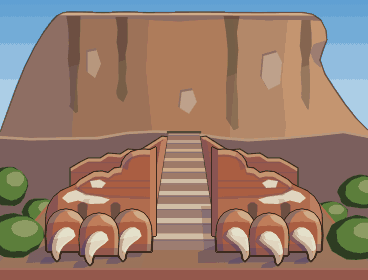
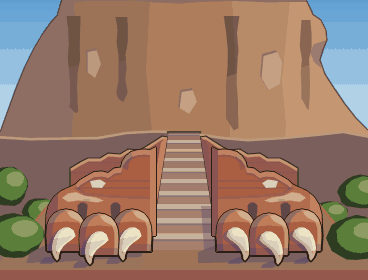
The painted monuments go on the map
All twelve plates are in content/map/assets.json now, so the chapter panel shows
each chapter's painted plate instead of the flat silhouette, which stays as the
fallback.

Before they went in, per the designer:

- Tikal is ruled: architecture only, no ceremony, modern altar, fire circle,
  offerings or people in frame, in the vignette or in any level. Recorded in
  content/research/arc.md section 4 and flagged on the chapter 6 row. The
  re-verification had found that contemporary Maya ceremonies are held in the
  Great Plaza, which the research had missed.
- Great Zimbabwe: the tower's top was two square notches a course deep and read
  as a castle battlement. It is flat and worn now, two shallow losses.
- The Iron Bridge: the red-brown iron sat on the same value as the woods behind
  it, and the plate was the darkest in the set. The woods are hazed back toward
  the sky, the river lifted, the iron given a little more sun, the bright
  abutment at the frame edge taken down a step.
- Sigiriya: the rock's flat ruled top across the plate read as a desert butte.
  The summit now runs off the top of the plate and the face towers. The pale
  plaster flash on each foot read as a cartoon paw pad; it is close to the brick
  in value now.
- The four plates that were painted without an art review (Gargas, the Lion
  Gate, Persepolis, Segesta) were reviewed and stand as they are.

Each asset entry names its painter as its source. content/map/README.md's
[…]

diff --git a/tools/monument-painters/iron-bridge.js b/tools/monument-painters/iron-bridge.js
@@ -45,10 +45,10 @@
 PAINTERS['iron-bridge'] = function (ctx, W, H, B) {
   // The research palette, a little sunnier than life.
   const S = {
-    ironSun: '#8c4e36', // the 2018 paint in full sun
+    ironSun: '#9c5639', // the 2018 paint in full sun
     iron: '#6e3829', // its local colour
     ironShade: '#4d2419', // under the arch, the receding ribs
-    stone: '#b0a488', // buff-grey ashlar in sun
+    stone: '#a39679', // buff-grey ashlar in sun, a step below the sky
     stoneShade: '#6f695c', // turned away, and the joints
     brick: '#8b5a45', // tollhouse and town brick
     roof: '#57565b', // tile roofs
@@ -206,9 +206,11 @@ PAINTERS['iron-bridge'] = function (ctx, W, H, B) {
   // value step behind the iron: the far ridge palest and coolest, the two
   // spurs a little nearer and greener, the sunlit town spur warmest.
   const WOOD_LOW = mixh(B.C.foliage, B.C.foliageDark, 0.5);
-  const FAR_RIDGE = mixh(lit(B.C.foliage, 0.1), B.C.skyLow, 0.5);
-  const SPUR_S = mixh(shd(B.C.foliage, 0.1), B.C.skyLow, 0.24);
-  const SPUR_N = mixh(lit(B.C.foliage, 0.2), B.C.skyLow, 0.22);
+  // The woods are hazed well back toward the sky so the iron, the subject,
+  // stands a clear value step in front of them (the pilot's first lesson).
+  const FAR_RIDGE = mixh(lit(B.C.foliage, 0.1), B.C.skyLow, 0.64);
+  const SPUR_S = mixh(shd(B.C.foliage, 0.06), B.C.skyLow, 0.46);
+  const SPUR_N = mixh(lit(B.C.foliage, 0.2), B.C.skyLow, 0.44);
 
   // ---------------------------------------------------------------------------
   // 1. The shared sky, cloudless as the pilot's, down behind the ridge.
@@ -691,7 +693,7 @@ PAINTERS['iron-bridge'] = function (ctx, W, H, B) {
     // The Severn's olive, taking the sky: pale and cool at the far water,
     // deepening toward the viewer, so the foot of the plate is neither empty
     // nor as heavy as the bridge.
-    const RIVER = mixh(S.river, B.C.skyLow, 0.46);
+    const RIVER = mixh(S.river, B.C.skyLow, 0.6);
     ctx.fillStyle = vgrad(ctx, WL, H, [[0, mixh(RIVER, B.C.skyLow, 0.2)], [0.4, RIVER], [1, shd(RIVER, 0.18)]]);
     ctx.fillRect(0, WL, W, H - WL);
 

diff --git a/tools/monument-painters/lion-paws.js b/tools/monument-painters/lion-paws.js
@@ -111,7 +111,9 @@ PAINTERS['lion-paws'] = function (ctx, W, H, B) {
   // that is some 100 px. The stair between them is about 2.2 m wide and climbs
   // on, narrowing into the distance, to the foot of the cliff.
 
-  const TOPY = 12; // the summit line, with some 10 px of sky above it
+  // The summit runs off the top of the plate: seen from the lion terrace the
+  // rock towers, and a flat ruled top across the frame read as a desert butte.
+  const TOPY = -6;
   const BASE = 250; // where the outer toes and the first step meet the terrace
   const PX1 = 150; // the left paw's inner side, along the stair; the right paw mirrors it
   const STAIR_TOP = 132; // the last step visible, in the shade at the cliff's foot
@@ -444,8 +446,10 @@ PAINTERS['lion-paws'] = function (ctx, W, H, B) {
       }
       // Surviving lime plaster over the top of the foot: a few crisp, pale
       // patches, the brick showing red between them.
-      const PL = lit(S.plaster, 0.12);
-      B.fill(c, P([[62, 198], [68, 192.6], [76, 190], [86, 194.6], [100, 196.4], [110, 199.4], [104, 203.4], [90, 204], [78, 200.6], [68, 203]]), PL);
+      // Kept close in value to the brick: a pale flash on each foot read as a
+      // cartoon pad, not as weathered lime.
+      const PL = mixh(lit(S.plaster, 0.06), S.brick, 0.42);
+      B.fill(c, P([[62, 198], [68, 193.6], [76, 192], [84, 195.6], [96, 197.4], [104, 200.4], [98, 202.4], [88, 201.6], [78, 200.6], [68, 202]]), PL);
       // A shallow cool dip down the middle of the foot where the toes part.
       wash(c, P([[74, 214], [84, 199], [90, 199], [86, 214]]), SHADOW, 0.16);
       wash(c, P([[108, 214], [114, 200], [120, 200], [118, 214]]), SHADOW, 0.16);

diff --git a/tests/map.spec.ts b/tests/map.spec.ts
@@ -277,3 +277,28 @@ test('nothing printed on the map is ever standing where the tourist is', async (
   });
   expect(clashes).toEqual([]);
 });
+
+test('every chapter shows its painted plate in the panel, not the flat fallback', async ({ page }) => {
+  const colours = await page.evaluate(() => {
+    const g = (window as unknown as { __game: { mapScreen: { view: string; chapter: number }; scale: number; draw(): void } }).__game;
+    const canvas = document.querySelector('#game') as HTMLCanvasElement;
+    const ctx = canvas.getContext('2d')!;
+    const out: number[] = [];
+    for (let c = 0; c < 12; c++) {
+      g.mapScreen.view = 'world';
+      g.mapScreen.chapter = c;
+      g.draw();
+      // The plate's frame in the world view, inset past its keyline.
+      const s = g.scale;
+      const d = ctx.getImageData((218 + 4) * s, (40 + 4) * s, (92 - 8) * s, (70 - 8) * s).data;
+      const seen = new Set<number>();
+      for (let i = 0; i < d.length; i += 4) seen.add((d[i]! << 16) | (d[i + 1]! << 8) | d[i + 2]!);
+      out.push(seen.size);
+    }
+    return out;
+  });
+  // Measured: a painted plate shows 239 to 255 colours here (its palette is
+  // capped at 255); the code-drawn silhouette, antialiased at this scale, about
+  // 156. 200 sits clear of both.
+  for (const [i, n] of colours.entries()) expect(n, `chapter ${i + 1}`).toBeGreaterThan(200);
+});

diff --git a/tools/monument-painters/conical-tower.js b/tools/monument-painters/conical-tower.js
@@ -405,7 +405,9 @@ PAINTERS['conical-tower'] = function (ctx, W, H, B) {
   // The conical tower: flat-topped, its top edge ragged where a few blocks of
   // the top course (and one of the course under it) are gone.
   const TOPM = TH_M;
-  const gaps = [[-1.58, -0.7, 1], [-0.7, -0.52, 0.5], [0.12, 0.6, 1]];
+  // Shallow, uneven losses, never a full course: two square notches a course
+  // deep made the flat top read as a castle battlement.
+  const gaps = [[-1.58, -1.02, 0.5], [0.28, 0.58, 0.35]];
   const bigTop = function (th) {
     for (const [a, b, n] of gaps) if (th >= a && th < b) return TOPM - n * COURSE_M;
     return TOPM;

diff --git a/content/map/README.md b/content/map/README.md
@@ -57,26 +57,37 @@ and an empty quiet map beats a busy confusing one.
 
 ## The vignettes
 
-One monument per chapter, `src/map/monuments.ts`, drawn by the game as a flat silhouette
-with no interior detail until somebody paints one. To paint one, add an entry for
-`map-monument-chNN-slug` to `assets.json` with a note beside it, at 92 × 70 world px;
-the painted version takes over automatically.
+One painted plate per chapter in the panel: 92 × 70 world px, painted 368 × 280,
+filling its keyline frame edge to edge. Each is one of that chapter's own five sites,
+never a famous monument borrowed from elsewhere and never one the research rejected.
+Each plate has its note beside it in `monuments/`, with what must be right, what is
+deliberately wrong, what is contested, and the sources; the note is the authority,
+not this page.
 
-**Each vignette is one of that chapter's own five sites**, never a famous monument
-borrowed from elsewhere, and never one the research rejected. Giza is not the vignette
-for Egypt, because `content/research/arc.md` rejects Giza as a level.
-
-| Ch | Site | What must be right about the outline |
+| Ch | Plate | Note |
 |---|---|---|
-| 1 | Gargas | A hand stencil, pigment blown around a hand: the rock is the ink and the hand is the void. All four fingers stop at a knuckle and the thumb is whole — Gargas is the cave of the incomplete hands. No finger stands proud of the others: a hand with one finger up is a gesture, and pillar 11 says the tourist is the joke, never the place. |
-| 2 | Abu Simbel | Four seated colossi of Ramesses II, one doorway between the inner pair, and the second colossus broken off above the waist. **Deliberately wrong:** the cornice and the frieze of twenty-two baboons above the heads are left off, because in silhouette they would flatten the four figures into one trapezoid. |
-| 3 | Mycenae | The Lion Gate: two uprights, one lintel, the relieving triangle above it, two lionesses flanking a column that is wider at the top than at the foot. |
-| 4 | Persepolis | Apadana columns, the slenderest in the ancient world for their height, under a capital of two bull foreparts back to back with the roof beam in the saddle between. **Deliberately wrong:** the bulls' horns are left off, because two horns on a skyline at this size read as antennae. |
-| 5 | Segesta | A Doric hexastyle temple standing complete on its hill, with both pediments and no cella: it was never finished. |
-| 6 | Tikal | Temple I: nine terraces, a stair straight up the front, and a roof comb narrower than the temple under it and taller than it, carrying nothing and holding up nothing. Chosen over El Castillo so that the Americas do not read as a pyramid a second time after Egypt. |
-| 7 | Angkor Wat | Five towers in a quincunx, so the elevation shows the central one tall and four lower, each shaped like a lotus bud, over the galleries and the causeway. |
-| 8 | Himeji | A stone base curving outward at the foot, then storeys under roofs with the eaves turned up at the corners. Chosen over the Great Wall, which is a line and not a shape. |
-| 9 | Great Zimbabwe | The conical tower seen over the enclosure wall, with the smaller second tower beside it that has largely fallen. Dry stone, no mortar, no door, no stair: solid all the way through. |
-| 10 | Registan | The pishtaq: a pointed arch in a rectangular frame taller than the building behind it, a ribbed melon dome on a drum, a minaret at each corner. |
-| 11 | The Iron Bridge | One semicircular arch of cast iron, the deck carried over the crown, and the rings in the spandrels. |
-| 12 | Martello Towers | A squat brick drum, wider than it is tall, battered inward all the way up, with the cordon ring under a low straight parapet, one traversing gun on the roof, and a door on the first floor with nothing under it but a ladder that could be pulled up after you. A second tower stands down the shingle: a hundred and three of them went up along the south and east coasts, spaced so their guns overlapped, against an invasion that never came. **Deliberately wrong:** the gun's barrel is drawn longer than a 24-pounder's was, because at this size the true length is a nub and a tower with no gun on it is just a drum. |
+| 1 | Gargas, the hand in the niche | `monuments/map-monument-ch01-palaeolithic.md` |
+| 2 | Abu Simbel, the Great Temple | `monuments/map-monument-ch02-egypt.md` |
+| 3 | Mycenae, the Lion Gate | `monuments/map-monument-ch03-aegean.md` |
+| 4 | Persepolis, the Apadana and its eastern stair | `monuments/map-monument-ch04-persia.md` |
+| 5 | Segesta, the unfinished temple | `monuments/map-monument-ch05-classical.md` |
+| 6 | Tikal, Temple I (architecture only: gate-6 ruling, arc.md §4) | `monuments/map-monument-ch06-americas.md` |
+| 7 | Sigiriya, the lion's paws (Angkor Wat carries an unresolved gate-6 flag) | `monuments/map-monument-ch07-monsoon.md` |
+| 8 | Himeji, from the south | `monuments/map-monument-ch08-east-asia.md` |
+| 9 | Great Zimbabwe, the conical tower inside the Great Enclosure (walls and tower only: arc.md §4) | `monuments/map-monument-ch09-africa.md` |
+| 10 | Registan, the Ulugh Beg Madrasa (the only one inside the chapter's dates) | `monuments/map-monument-ch10-islamic.md` |
+| 11 | The Iron Bridge, from downstream | `monuments/map-monument-ch11-industrial.md` |
+| 12 | Martello Towers, Dymchurch | `monuments/map-monument-ch12-napoleonic.md` |
+
+**How they are made.** Each plate is painted by a script in `tools/monument-painters/`,
+following the research in `tools/monument-painters/specs/`, and regenerated with
+`npm run map:monuments` (or `-- <painter>` for one). The Abu Simbel plate is the
+standard the others were matched to: flat brochure illustration, light from the upper
+right, the shared sky and shadow colours from `_brush.js`. A plate is saved as an
+indexed PNG and must stay under 64 kB, because all twelve load before the first
+screen. A hand painting can replace any plate at the same size; drop the `source`
+from its manifest entry and keep the `.aseprite` beside it as usual.
+
+If a plate is missing, the map falls back to the flat silhouette in
+`src/map/monuments.ts`. Those silhouettes predate the research and are placeholders
+only.

diff --git a/content/map/monuments/map-monument-ch07-monsoon.md b/content/map/monuments/map-monument-ch07-monsoon.md
@@ -53,8 +53,8 @@ the width of the plate at its foot and narrows toward the top, as rock does when
 tilts up. It is painted in five tall flat planes, cool on the left and stepping warmer to
 the sunlit right. On the right a sunny shoulder leans out over a shaded undercut. Four
 dark run-off streaks hang from the lip, darkest at the top. Three pale angular patches
-show where the weathered skin has flaked away. The summit line is flat and bare, with a lit
-lip and a band of shade under it. The foot of the cliff, behind the paws, is one calm
+show where the weathered skin has flaked away. The summit runs off the top of the plate,
+so the face towers; the sky shows only in the upper corners. The foot of the cliff, behind the paws, is one calm
 band of cool shade under a thin lit edge, so the tops of the paws stand clear of it.
 
 Above, the set's brochure sky, cloudless: a strip along the top of the plate and a wedge
@@ -108,8 +108,8 @@ paws is gone" is what is known. And the chapter 7 row of the vignettes table in
 - The terrace is the ground, and the cliff rises from its back edge. The terrace is not at
   the level of the plain.
 - The rock is a sheer, bare, near-vertical cliff. Not a green hill, not a dome, not a cone.
-- The summit line is broadly flat. No palace, wall, tower or roof on it: the summit holds
-  foundations and cisterns only, and none shows from here.
+- Nothing built shows on the rock from here. The summit, out of frame above, holds
+  foundations and cisterns only.
 - No painted women on the cliff face and no gleaming mirror wall. Both are on the west
   face, out of this view.
 - No water, moat, fountains or water gardens in frame. They lie at the western foot of the
@@ -144,8 +144,8 @@ paws is gone" is what is known. And the chapter 7 row of the vignettes table in
   The plate throws them to the left and a little toward the viewer, the set's rule, onto
   the terrace and across the lowest steps.
 - **The view is compressed.** The depth of the terrace is shortened and the cliff cut
-  down, so the paws and the summit edge fit one 92 × 70 frame. Looking up from the terrace,
-  the real cliff would fill far more of the view.
+  so the paws and the towering face fit one 92 × 70 frame. The summit is left out of
+  frame: a flat ruled top across the plate read as a desert butte.
 - **The terrace is empty.** It never is in life. A brochure clears it, and figures at this
   size would be specks that confuse the paws' scale.
 - **The modern fittings are left out.** The metal stairways that climb the rock above the

diff --git a/content/research/arc.md b/content/research/arc.md
@@ -5,7 +5,7 @@ single source of truth for site identity, period, costume and status. It does no
 contain level design; beats are decided one at a time in design conversation and
 live in each level's own asset notes.
 
-Last revised: 2026-09-23. Great Zimbabwe ruled: walls, passage and tower only (section 4). 2026-09-15: curator mode dropped by designer ruling; facts that cannot be shown without text live in the asset notes and nowhere in the game.
+Last revised: 2026-09-24. Tikal ruled: architecture only (section 4). 2026-09-23: Great Zimbabwe ruled: walls, passage and tower only (section 4). 2026-09-15: curator mode dropped by designer ruling; facts that cannot be shown without text live in the asset notes and nowhere in the game.
 
 ---
 
@@ -187,7 +187,7 @@ castles, Oceania and Polynesia, the steppe and nomadic cultures.
 |---|---|---|---|---|---|
 | — | Teotihuacan | `teotihuacan` | MX | c. 100 BC – AD 550 | Sun and Moon pyramids; Batres over-restoration c. 1906 is a reconstruction beat. Charnay 1880s, PD |
 | — | Chichén Itzá | `chichen_itza` | Yucatán, MX | c. AD 600–1200 | El Castillo, ball court, equinox serpent-shadow. Catherwood 1843, Maudslay 1889–1902, PD |
-| — | Tikal | `tikal` | Petén, GT | c. AD 200–900 | Steep temple stairs, roof-combs. Maudslay, Maler, PD |
+| — | Tikal | `tikal` | Petén, GT | c. AD 200–900 | Steep temple stairs, roof-combs. Maudslay, Maler, PD. **Flag:** contemporary Maya ceremonies in the Great Plaza — architecture only (ruled 2026-09-24, section 4) |
 | — | Monte Albán | `monte_alban` | Oaxaca, MX | c. 500 BC – AD 800 | Levelled hilltop, danzantes, Building J |
 | — | Ollantaytambo | `ollantaytambo` | Cusco, PE | Inca, 15th c. | Stacked terraces, unfinished megaliths, quarry ramp. Squier 1877, PD |
 
@@ -319,6 +319,7 @@ use of the site: levels, asset notes, and the tour map.
 | Site | Chapter | Issue | Ruling | Date |
 |---|---|---|---|---|
 | `great_zimbabwe` | 9 | A revered locus on site | Walls, passage and tower only, as recommended. First applied to the chapter 9 vignette on the tour map; the revered locus stays out of frame there and in any level | 2026-09-23 |
+| `tikal` | 6 | Contemporary Maya ceremonies are held at the site, in the Great Plaza (found in re-verification, 2026-09-23) | Architecture only: no ceremony, modern altar, fire circle, offerings or people in frame, in the tour-map vignette or in any level | 2026-09-24 |
 
 ---
 

diff --git a/content/map/monuments/map-monument-ch09-africa.md b/content/map/monuments/map-monument-ch09-africa.md
@@ -39,9 +39,9 @@ In the plate:
   little downward at the foot. Short end joints stand about a course apart and crowd
   toward the edges. The right front is lit, the left flank in cool shade, with a soft
   terminator between. A thin sunlit arris runs under each joint on the lit side.
-- **Its top** is flat and lit along its edge. It is broken in two places where blocks of
-  the top course are gone: a low step across the left shoulder, and a notch right of
-  centre.
+- **Its top** is flat and lit along its edge, worn uneven in two shallow places where
+  stones of the top course are gone, across the left shoulder and right of centre. Never
+  a full course deep: square notches made it read as a castle battlement.
 - **The small tower**, to the right of the great one with a gap of court between them. It
   is the same masonry at 0.42 of the size, broken off in a steep ragged slope from about
   3 m on its left to about 1 m on its right. Six fallen blocks lie spilled at its right
